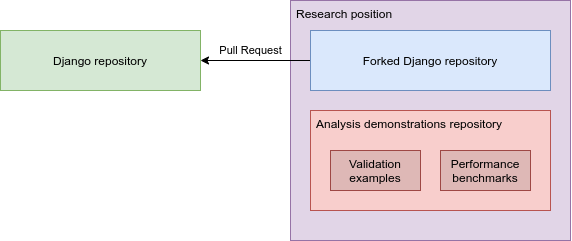
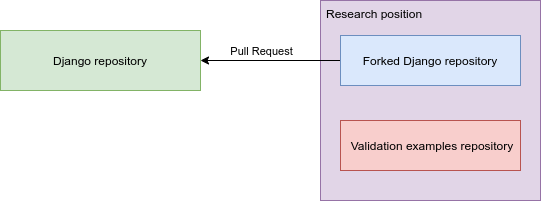
rev: Minor overall revision

Changed region(s): [[0.0, 0.0, 1.0, 1.0], [0.0887, 0.2388, 0.2662, 0.3284]]

diff --git a/bab1.tex b/bab1.tex
@@ -159,11 +159,9 @@ constructed for this research:
 
 \begin{enumerate}
     \item How can \code{JSONField} in Django be reimplemented with
-          cross-database support and compatibility with the previous
+          cross-database support and compatibility with the PostgreSQL-only
           \code{JSONField} implementation?
     \item How can Django users enforce validation rules on a \code{JSONField}?
-    \item How is the performance of the cross-database \code{JSONField} on all
-          of the database backends supported by Django?
 \end{enumerate}
 
 %-----------------------------------------------------------------------------%
@@ -176,9 +174,7 @@ The objectives of this research are to:
     \item Implement a new \code{JSONField} that can be used on all database
           backends supported by Django.
     \item Demonstrate how semi-structured data in a \code{JSONField} can be
-    validated.
-    \item Provide a performance analysis of \code{JSONField} across different
-          database backends.
+          validated.
 \end{itemize}
 
 %-----------------------------------------------------------------------------%
@@ -190,8 +186,8 @@ This research would hopefully bring the following benefits:
 \begin{itemize}
     \item Provide Django users with a \code{JSONField} that has a consistent
           experience on all database backends supported by Django.
-    \item Give insights to Django users about the inner workings, validation
-          examples, and performance considerations of \code{JSONField}.
+    \item Give insights to Django users about the inner workings and validation
+          examples of \code{JSONField}.
 \end{itemize}
 
 %-----------------------------------------------------------------------------%
@@ -204,9 +200,6 @@ The following assumptions were made prior to the execution of this research:
     \item The \code{JSONField} implementation would be submitted as a pull
           request and merged to the upstream Django repository instead of being
           made as a separate package.
-    \item The primary focus of this research would be on implementing the model
-          field type of \code{JSONField}, with the form field type as a
-          secondary priority.
     \item The \code{JSONField} implementation has to take into account the
           limitations of each database backend, thus there may be features that
           behave differently or are not supported on some database backends.
@@ -259,10 +252,9 @@ of the Django repository. The branch was submitted as a pull request to the
 Django repository to fix ticket \#12990 on the Django issue tracker
 \cite{ticket_12990} and was included in the Django 3.1.0 release. The pull
 request allowed the Django contributors to review the code and give feedback
-on the implementation. The data validation and performance benchmarking
-analysis demonstrations were done in a separate repository in the form of
-two small Django projects. The position of this research is illustrated by
-\autoref{fig:position3}.
+on the implementation. The data validation examples were created in a separate
+repository in the form of two small Django projects. The position of this
+research is illustrated by \autoref{fig:position3}.
 
 \begin{figure}
 	\centering
@@ -340,13 +332,15 @@ The structure of this report is as follows:
         This chapter covers the design and analysis to prepare for the
         implementation.
     \item Chapter 4 \babEmpat \\
-        This chapter covers the \code{JSONField}, the data validation example,
-        and the benchmarking implementations.
+        This chapter covers the implementation of \code{JSONField} and its
+        extended querying capabilities.
     \item Chapter 5 \babLima \\
-        This chapter covers the analysis of the implementation results. This
-        also covers the comparison of the benchmarking results between the
-        database backends.
-    \item Chapter 6 \kesimpulan \\
+        This chapter covers the demonstration of validation rules applied on
+        a \code{JSONField} to validate the JSON data inside the field.
+    \item Chapter 6 \babEnam \\
+        This chapter covers the tests for \code{JSONField} and the deprecation
+        of the previous PostgreSQL-only implementation.
+    \item Chapter 7 \kesimpulan \\
         This chapter covers the conclusions of the research and some
-        recommendations for further research.
+        recommendations for future research.
 \end{itemize}

diff --git a/bab4.tex b/bab4.tex
@@ -140,8 +140,8 @@ use the values from \verb|BaseDatabaseFeatures| as they are already correct.
 The \verb|DatabaseWrapper| class of the SQLite backend is modified to add the
 mapping from \verb|JSONField| to \verb|text| in the \verb|data_types| property,
 as shown by line 7 of \autoref{code:backends-sqlite3-1}. It is also modified to
-apply the \verb|JSON_VALID()| check constraint to the database column. As the
-function returns \verb|0| (false) for SQL \verb|NULL| values, an
+apply the \verb|JSON_VALID()| SQL \verb|CHECK| constraint to the database
+column. As the function returns \verb|0| (false) for SQL \verb|NULL| values, an
 \verb|OR "%(column)s" IS NULL| clause is added to support storing SQL
 \verb|NULL| values, as shown by line 12 of the listing.
 
@@ -260,7 +260,7 @@ correctly. In addition to the checks included from the \verb|Field| class,
 by line 1 of \autoref{code:jsonfield-check}. The mixin\footnote{A mixin is a
 class that defines methods to be used by other classes through inheritance.}
 adds a check to ensure that any default value set for the field should be a
-callable instead of an instance, so that it's not shared between all instances
+callable instead of an instance, so that it is not shared between all instances
 of the field. The \verb|JSONField| class also overrides the \verb|check()|
 method to include the \verb|_check_supported()| method in the checking process,
 as shown by lines 4 to 8 of the listing.
@@ -604,7 +604,7 @@ key names as array indices.
 
 During this research, a security vulnerability was found in the existing
 PostgreSQL-only implementation of \verb|KeyTransform|. Previously, the SQL
-query expression was implemented in the \verb|as_sql()| method because it's
+query expression was implemented in the \verb|as_sql()| method because it is
 assumed that \verb|KeyTransform| is only used on PostgreSQL (as part of the
 \verb|django.contrib.postgres| module). In the method, when there is only one
 \verb|KeyTransform|, the key name is directly inserted into the string, rather
@@ -882,7 +882,7 @@ Otherwise, the \verb|lhs| is processed normally and the JSONPath is the root
 The \verb|has_key| lookup accepts a key name (string) as the \verb|rhs|, but
 the \verb|has_keys| and \verb|has_any_keys| lookup accepts a list or tuple of
 key names. To unify the implementation, the \verb|rhs| is wrapped into a list
-if it's not a list or tuple, as shown by lines 18 and 19 of
+if it is not a list or tuple, as shown by lines 18 and 19 of
 \autoref{code:lookups-haskeylookup-1}. Then, each key name in the \verb|rhs| is
 compiled into a JSONPath that is prepended with the JSONPath from the
 \verb|lhs|, as shown by lines 20 to 30. After that, the JSONPaths are joined

diff --git a/bab3.tex b/bab3.tex
@@ -83,7 +83,7 @@ JSON-encoded \code{'null'} string on the database. However, according to the
 Python DB-API 2.0 specification (which Django follows), the \code{None} object
 is reserved for the SQL \code{NULL} value for both input and output
 \cite{db-api2}. Therefore, the model field should skip the serialization and
-deserialization for \code{None} (if it's stored as the top-level value) and let
+deserialization for \code{None} (if it is stored as the top-level value) and let
 the database driver store it as SQL \code{NULL}.\footnote{Storing some data as
 the top-level value means that the data is stored directly inside the field,
 rather than contained inside a Python dictionary or list.}
@@ -191,7 +191,7 @@ functions provided by the database systems.
 \section{\code{JSONField} Lookups and Transforms}
 %-----------------------------------------------------------------------------%
 
-In Django, lookups and transforms are part of the query expressions API. The
+In Django, lookups and transforms are part of the query expression API. The
 API consists of classes that define methods that translate instances of the
 classes into SQL expressions. Therefore, lookups and transforms can be used to
 change how SQL queries are composed by Django.
@@ -207,7 +207,7 @@ Meanwhile, a transform is a query expression that can be used to transform one
 field (in an expression) into another field. To use a transform, the notation
 is \verb|<expression>__<transform>|. For example, the year transform (e.g.
 \verb|date_field__year|) transforms a \verb|DateField| into an
-\verb|IntegerField|. As transforms also follow the query expressions API, it is
+\verb|IntegerField|. As transforms also follow the query expression API, it is
 possible to chain multiple transforms in a query expression, e.g.
 (\verb|<expression>__<transform1>__<transform2>|).
 

diff --git a/bab2.tex b/bab2.tex
@@ -292,7 +292,7 @@ model and declare a field with an instance of \code{JSONField} as shown in
 in \autoref{code:jsonshell}. Lines 2 and 3 of the listing demonstrate that the
 field accepts a Python object that can be encoded into JSON, in this case a
 dictionary. When calling the \code{create()} method, the object inside the
-field gets encoded before it's saved into the database. Upon retrieval, the
+field gets encoded before it is saved to the database. Upon retrieval, the
 data gets decoded back into a Python object, as demonstrated on lines 5 to 9.
 Since the data is a Python dictionary, modifying the data using dictionary
 operations is possible, as shown on line 10. After saving the modified model
@@ -330,7 +330,7 @@ Before this research, the existing implementation of \code{JSONField} relied on
 features that are only available on PostgreSQL as shown in
 \autoref{code:pgjsonfield} \cite{django:pgjsonfield}. For example, it used the
 \code{Json} adapter included in Psycopg 2. The adapter was used to encode a
-Python object into a JSON-encoded string before it's sent to the database
+Python object into a JSON-encoded string before it is saved to the database
 (implemented in the \code{get\_prep\_value} method). In addition, it used the
 \code{jsonb} data type that's available on PostgreSQL, but not on other
 database backends supported by Django.

diff --git a/bab5.tex b/bab5.tex
@@ -6,7 +6,7 @@ In the previous chapter, the implementation of \verb|JSONField| has been
 explained, which includes basic validation of the JSON data. However, the basic
 validation only checks the syntax and not the semantics of the data. To
 validate the semantics, additional checking can be implemented using Django's
-validation features on the application-level, which is demonstrated in this
+validation features on the application level, which is demonstrated in this
 chapter.
 
 %-----------------------------------------------------------------------------%

diff --git a/laporan_setting.tex b/laporan_setting.tex
@@ -87,5 +87,5 @@
 \Var{\babTiga}{Implementation Design and Analysis}
 \Var{\babEmpat}{Implementation}
 \Var{\babLima}{JSON Data Validation}
-\Var{\babEnam}{Results and Evaluation}
+\Var{\babEnam}{Results}
 \Var{\kesimpulan}{Conclusions}
